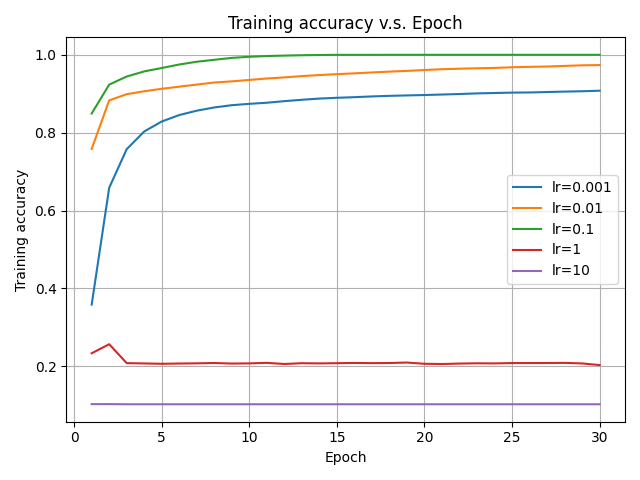
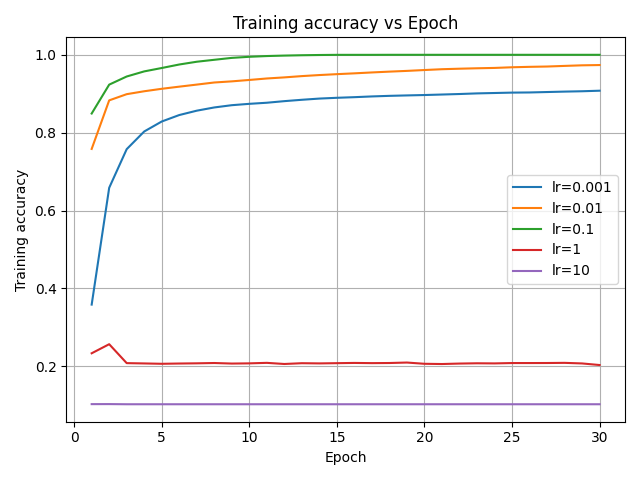
added d section

Changed region(s): [[0.3438, 0.0312, 0.7188, 0.0625]]

diff --git a/backprop_main.py b/backprop_main.py
@@ -4,56 +4,134 @@ from backprop_network import *
 from backprop_data import *
 import matplotlib.pyplot as plt
 
-def plot_metric(metric_index, ylabel, filename, log=False):
-    """plot generating function showing train loss, train acc, test acc, with different learning rates over epochs
-        """
+def plot_metric(histories, lr_list, metric_index, ylabel,
+                filename, log=False):
     plt.figure()
-    for lr in learning_rates:
+    for lr in lr_list:
         metric = histories[lr][metric_index]
-        plt.plot(range(1, epochs + 1), metric, label=f"lr={lr}")
+        plt.plot(range(1, len(metric) + 1), metric, label=f"lr={lr}")
     plt.xlabel("Epoch")
     plt.ylabel(ylabel)
     if log:
         plt.yscale('log')
-    plt.title(f"{ylabel} v.s. Epoch")
+    plt.title(f"{ylabel} vs Epoch")
     plt.legend()
     plt.grid(True)
     plt.tight_layout()
     plt.savefig(filename)
     print(f"Saved {filename}")
 
-# Loading Data
-np.random.seed(0)  # For reproducibility
-n_train = 10000
-n_test = 5000
-x_train, y_train, x_test, y_test = load_as_matrix_with_labels(n_train, n_test)
 
-# Training configuration
-epochs = 30
-batch_size = 10
-learning_rates = [1e-3, 1e-2, 1e-1, 1, 10] #for section b
+# ------------------------------------------------------------
+# Section (b): learning-rate sweep wrapped in one function
+# ------------------------------------------------------------
+def lr_sweep_section_b():
+    """Runs the five-learning-rate experiment and saves three PNG plots."""
+    # Loading Data
+    np.random.seed(0)
+    x_train, y_train, x_test, y_test = load_as_matrix_with_labels(10000, 5000)
+
+    # Training configuration
+    epochs       = 30
+    batch_size   = 10
+    learning_rates = [1e-3, 1e-2, 1e-1, 1, 10]
+
+    # Network configuration
+    layer_dims = [784, 40, 10]
+
+    # Training loop
+    histories = {}
+    for lr in learning_rates:
+        print(f"\n=== Training with learning rate {lr} ===")
+        np.random.seed(0)                       # same init each run
+        net = Network(layer_dims)
+        (_, train_loss, _, train_acc, test_acc) = net.train(
+                x_train, y_train,
+                epochs=epochs, batch_size=batch_size, learning_rate=lr,
+                x_test=x_test, y_test=y_test)
+        histories[lr] = (train_loss, train_acc, test_acc)
+
+    # Plotting
+    plot_metric(histories, learning_rates, 0, "Training loss",
+                "b_train_loss.png", log=True)
+    plot_metric(histories, learning_rates, 1, "Training accuracy",
+                "b_train_acc.png")
+    plot_metric(histories, learning_rates, 2, "Test accuracy",
+                "b_test_acc.png")
 
 
-# Network configuration
-layer_dims = [784, 40, 10]
 
-# training + getting train loss, train acc, test acc, with different learning rates
-histories = {}
-for lr in learning_rates:
-    print(f"\n=== Training with learning rate {lr} ===")
-    np.random.seed(0)                 # same weight init & shuffle every run
+def test_full_section_c():
+    """testing test accuracy on the full test size after training on the whole test set"""
+    np.random.seed(0)
+    x_train, y_train, x_test, y_test = load_as_matrix_with_labels(60000, 10000)
+
+    # Training configuration
+    epochs = 30
+    batch_size = 10
+
+    # Network configuration
+    layer_dims = [784, 40, 10]
     net = Network(layer_dims)
-    _, train_loss, _, train_acc, test_acc = net.train(x_train, y_train, epochs, batch_size, learning_rate=lr, x_test=x_test, y_test=y_test)
-    histories[lr] = (train_loss, train_acc, test_acc)
 
-#plotting the plots for section (b)
-plot_metric(metric_index=0, ylabel="Training loss",
-            filename="b_train_loss.png", log=True)
+    #training
+    (_, _, _, _, test_acc) = net.train(
+        x_train, y_train,
+        epochs=epochs, batch_size=batch_size, learning_rate=0.1,
+        x_test=x_test, y_test=y_test)
+    print(f"Test accuracy on the full test size after {epochs} epochs: {test_acc[-1]}")
 
-plot_metric(metric_index=1, ylabel="Training accuracy",
-            filename="b_train_acc.png")
+def linear_classifier_section_d():
+    # Loading Data
+    np.random.seed(0)
+    x_train, y_train, x_test, y_test = load_as_matrix_with_labels(60000, 10000)
 
-plot_metric(metric_index=2, ylabel="Test accuracy",
-            filename="b_test_acc.png")
+    # Training configuration
+    epochs = 30
+    batch_size = 10
+
+    # Network configuration
+    layer_dims = [784, 10]
+
+    # Training
+
+    net = Network(layer_dims)
+    (_, _, _, train_acc, test_acc) = net.train(
+        x_train, y_train,
+        epochs=epochs, batch_size=batch_size, learning_rate=0.1,
+        x_test=x_test, y_test=y_test)
+
+    # Plotting the test & train accuracy over epochs
+    plt.figure()
+    plt.plot(range(1, epochs + 1), train_acc, label="Train")
+    plt.plot(range(1, epochs + 1), test_acc, label="Test")
+    plt.xlabel("Epoch")
+    plt.ylabel("Accuracy")
+    plt.title("Linear classifier – accuracy vs epoch")
+    plt.grid(True)
+    plt.legend()
+    plt.tight_layout()
+    plt.savefig("d_linear_accuracy.png")
+    plt.close()
+    print("Saved d_linear_accuracy.png")
+
+    #Weight visualisation (10 templates)
+    W = net.parameters["W1"]  # shape (10, 784)
+
+    fig, axes = plt.subplots(2, 5, figsize=(10, 4))
+    axes = axes.ravel()
+    for i in range(10):
+        axes[i].imshow(W[i].reshape(28, 28),interpolation='nearest', cmap="gray")
+        axes[i].set_title(f"Digit {i}")
+        axes[i].axis("off")
+
+    fig.suptitle("Linear-classifier weight templates")
+    plt.tight_layout()
+    plt.savefig("d_linear_weights.png")
+    plt.close()
+    print("Saved d_linear_weights.png")
 
 
+if __name__ == "__main__":
+    #lr_sweep_section_b()   # generates plots for part (b)
+    test_full_section_c()   # printing test acc for the full mnist set
